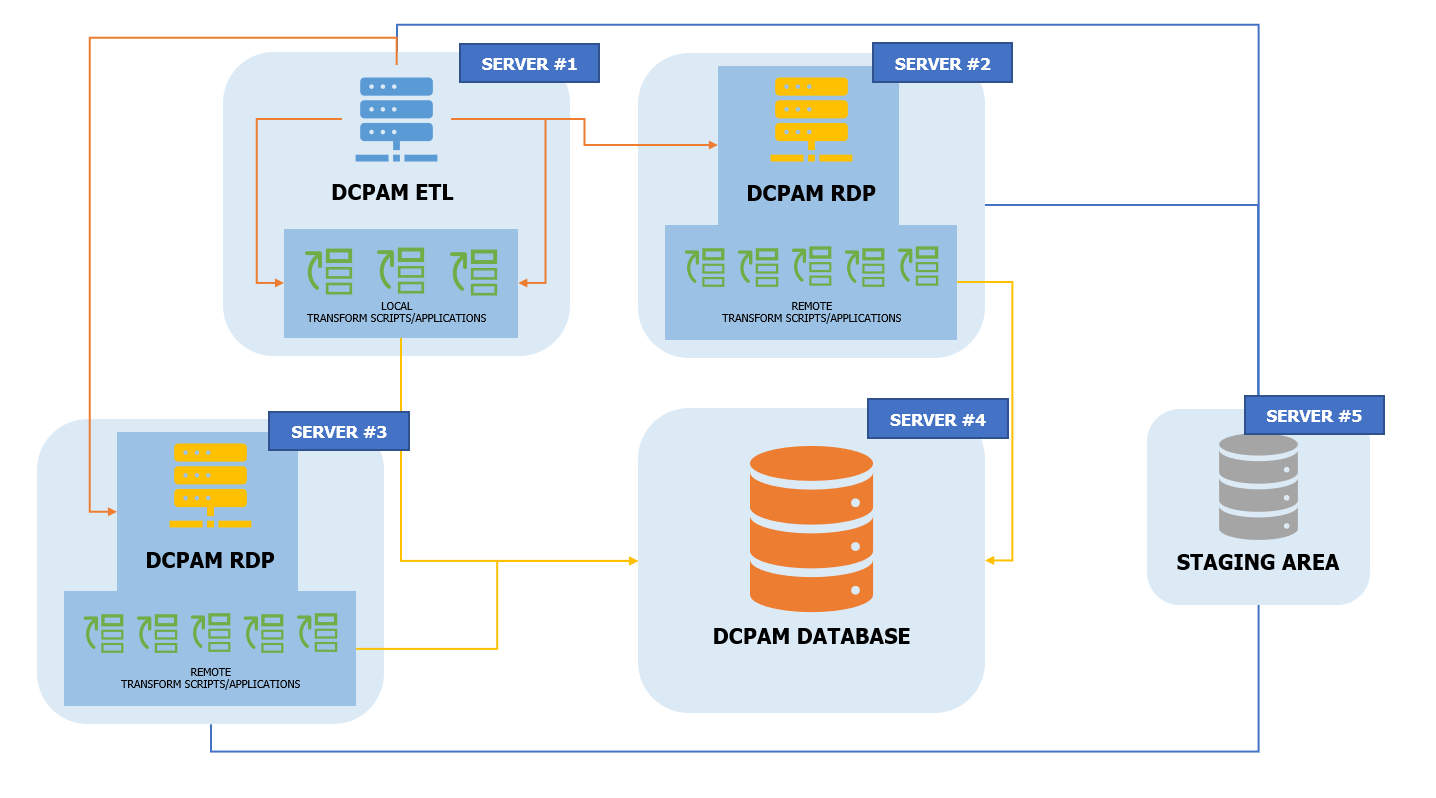
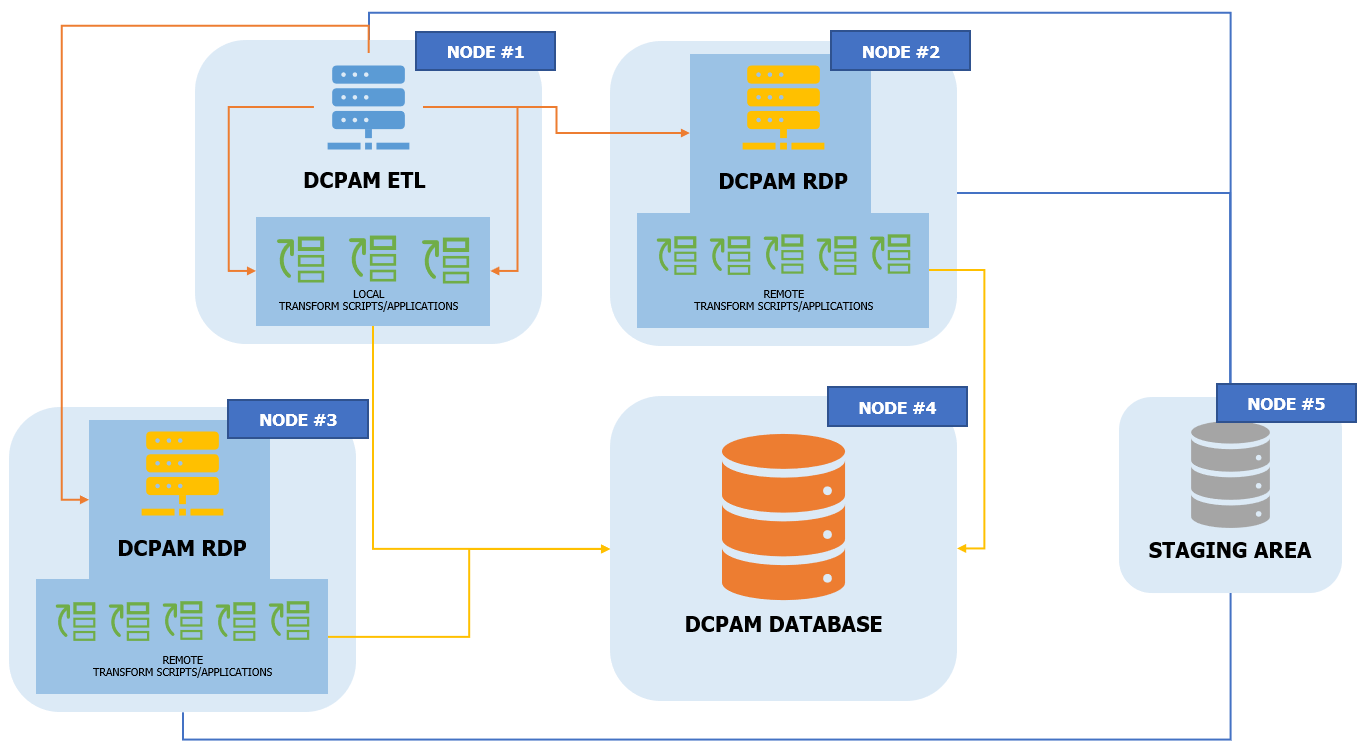
Updated DCPAM README

diff --git a/README.md b/README.md
@@ -19,7 +19,7 @@
 * [Business Value](https://github.com/OrionExplorer/dcpam#business-value)
     * [Extract, Transform and Load](https://github.com/OrionExplorer/dcpam#extract-transform-and-load)
 * [Data Warehouse with DCPAM](https://github.com/OrionExplorer/dcpam#data-warehouse-with-dcpam)
-    * [What DCAM covers in terms of Data Warehousing?](https://github.com/OrionExplorer/dcpam#what-dcpam-covers-in-terms-of-data-warehousing)
+    * [What DCPAM covers in terms of Data Warehousing?](https://github.com/OrionExplorer/dcpam#what-dcpam-covers-in-terms-of-data-warehousing)
     * [Elements yet to be covered by DCPAM](https://github.com/OrionExplorer/dcpam#elements-yet-to-be-covered-by-dcpam)
     * [Other](https://github.com/OrionExplorer/dcpam#other)
 * [Technology](https://github.com/OrionExplorer/dcpam#technology)
@@ -125,18 +125,31 @@ More specific description of data transformation possibilities can be found in [
 
 ## Technology
 ### DCPAM Components
-  * [DCPAM ETL](https://github.com/OrionExplorer/dcpam/tree/master/src/DCPAM_ETL) - main ETL/ELT engine.
-  * [DCPAM WDS](https://github.com/OrionExplorer/dcpam/tree/master/src/DCPAM_WDS) - warehouse data server with memory caching system.
-  * [DCPAM RDP](https://github.com/OrionExplorer/dcpam/tree/master/src/DCPAM_RDP) - remote data processor for transformations.
-  * DCPAM Construct - system administration.
-  * DCPAM Access - Bussiness Inteligence web application.
+#### DCPAM ETL - Extract-Transform-Load / Extract-Load-Transform
+[DCPAM ETL](https://github.com/OrionExplorer/dcpam/tree/master/src/DCPAM_ETL) is the main ETL/ELT engine. Many instances of DCPAM ETL can work within single Data Warehouse.
+
+#### DCPAM WDS - Warehouse Data Server
+[DCPAM WDS](https://github.com/OrionExplorer/dcpam/tree/master/src/DCPAM_WDS) is dedicated endpoint for querying predefined business data. It is dedicated caching system for DCPAM.
+
+#### DCPAM RDP - Remote Data Processor
+[DCPAM RDP](https://github.com/OrionExplorer/dcpam/tree/master/src/DCPAM_RDP) is used by DCPAM ETL to execute transform scripts/applications that must be run on separate machines because of performance impact. DCPAM ETL communicate with these remote scripts/applications through DCPAM RDP.
 
 ![DCPAM Architecture overview](https://raw.githubusercontent.com/OrionExplorer/dcpam/master/docs/architecture.png)
 *<p align=center>DCPAM Architecture overview</p>*
 
 
 ![DCPAM Transform process architecture overview](https://raw.githubusercontent.com/OrionExplorer/dcpam/master/docs/rdp.png)
-*<p align=center>DCPAM Transform process overview</p>*
+Example of DCPAM Transform process scalability:
+* Multiple DCPAM ETL engine nodes can be run within single Data Warehouse.
+* Each DCPAM ETL instance can trigger unlimitend number of local and remote (through DCPAM RDP) data transformation scripts/applications.
+* Each DCPAM ETL instance can use dedicated Staging Area node (local or remote).
+* Many DCPAM Database nodes can be encapsulated into single data access point by DCPAM WDS.
+
+#### DCPAM Construct
+DCPAM Construct is going to be main system administration web application.
+
+#### DCPAM Access
+DCPAM Access is going to be dedicated Bussiness Inteligence web application.
 
 ### Data sources
 DCPAM development is still in progress with following data sources available:
